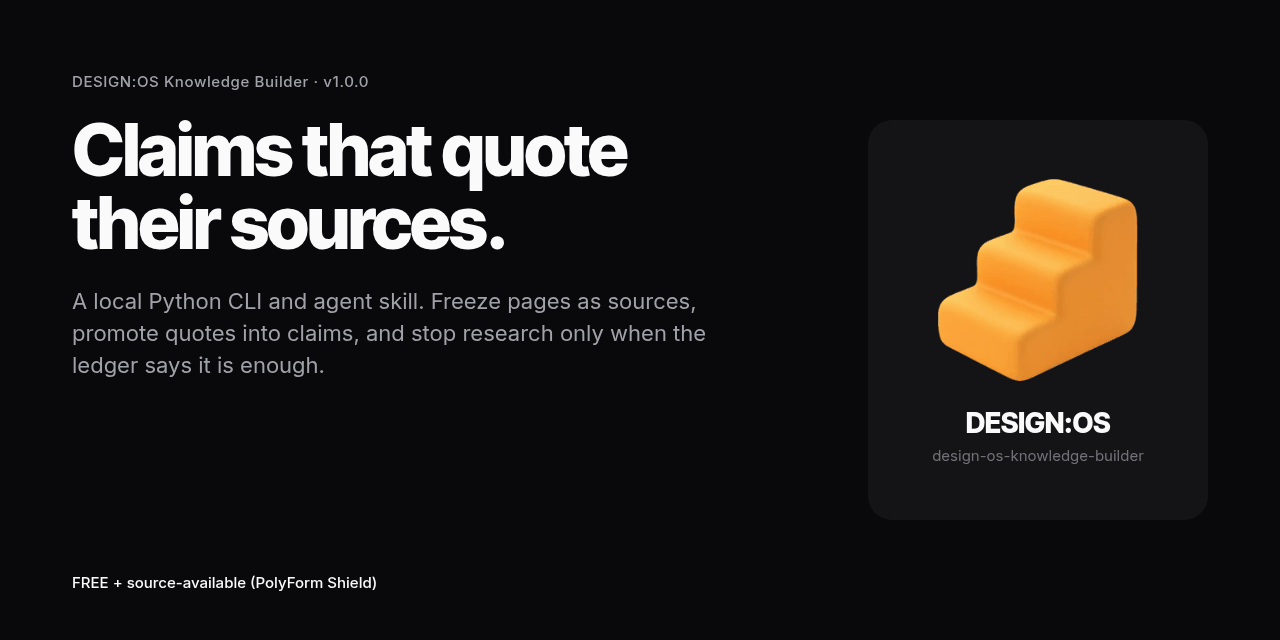
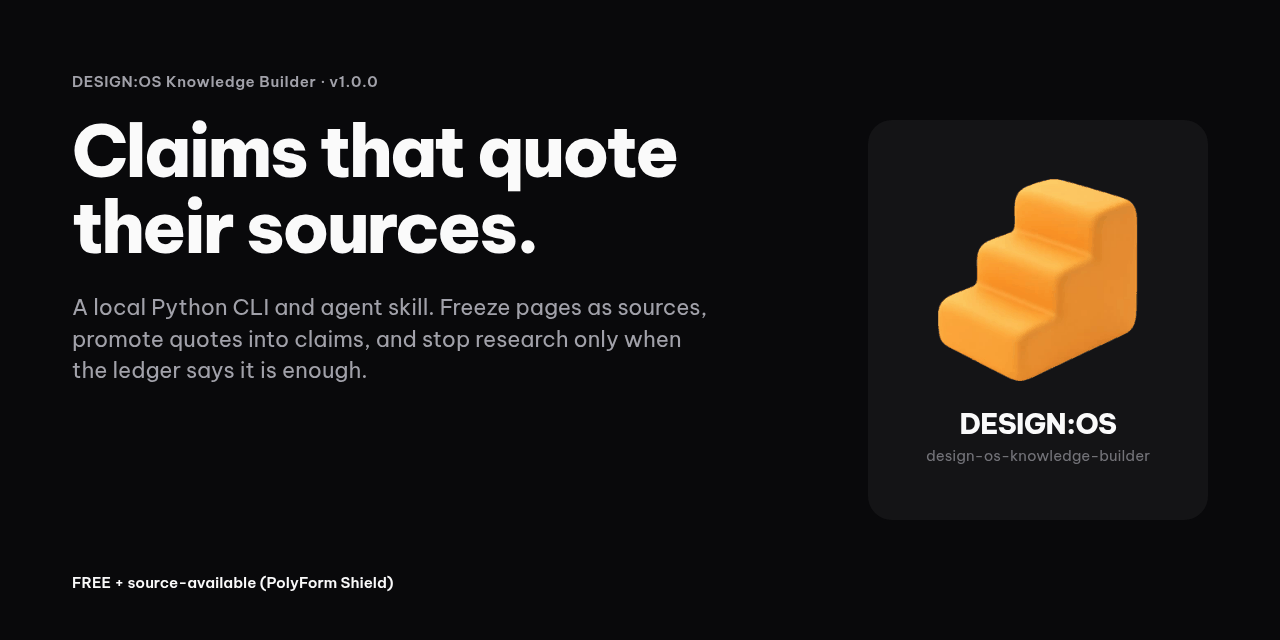
docs: re-render README assets in Be Vietnam Pro (#20)

diff --git a/docs/images/readme/PROVENANCE.md b/docs/images/readme/PROVENANCE.md
@@ -4,9 +4,9 @@
[1 lines of base64/hex data omitted]
 
 ## Covers, flow diagrams and social preview
-Family-matched cards in the same layout as the other DESIGN:OS README refreshes: 1600x720 covers, 1600x1000 flow, 1280x640 social. Inter Tight and Inter, rendered with headless Chrome, then quantised to an indexed palette. Dark #09090b, light #f4f4f5, accent #fca849. Footer: FREE + source-available (PolyForm Shield). `social-preview.png` is not uploaded in repository Settings.
+Family-matched cards in the same layout as the other DESIGN:OS README refreshes: 1600x720 covers, 1600x1000 flow, 1280x640 social. Be Vietnam Pro (400, 600, 800) with a ui-monospace stack for code, rendered with headless Chrome, then quantised to an indexed palette. Dark #09090b, light #f4f4f5, accent #fca849. Footer: FREE + source-available (PolyForm Shield). `social-preview.png` is not uploaded in repository Settings.
 
 Every number on the cards comes from the code: 10 MiB and 300 s from `src/knowledge_builder/research/run_exec.py`, 6 words and 30 characters from `src/knowledge_builder/quote_rules.py`, the four decisions and the 3-round, 2% saturation rule from `src/knowledge_builder/research/stopping_gate.py`, the six hosting hosts from `src/knowledge_builder/ontology/hosting_hosts.py`, and the seven built-in actions from the generated `skills/es-knowledge-forge/contract.txt`.
 
 ## Look sheets
-`look-sheet-tiny-entity-pack.png` and `look-sheet-tiny-document-pack.png` are real output of `skills/es-knowledge-forge/look.py`, run on packs built by `build.py` from `skills/es-knowledge-forge/examples/tiny-entity-pack.json` and `tiny-document-pack.json` (look.py printed L1 to L4 ok for both). Only the palette was reduced to keep the files small; nothing was edited.
+`look-sheet-tiny-entity-pack.png` and `look-sheet-tiny-document-pack.png` are real output of `skills/es-knowledge-forge/look.py`, run on packs built by `build.py` from `skills/es-knowledge-forge/examples/tiny-entity-pack.json` and `tiny-document-pack.json` (look.py printed L1 to L4 ok for both). The palette was reduced to keep the files small. The only edit is a grey bar over the local pack path in each header line (the text after `run tiny-...-261013 ·`), so no machine path is published.
